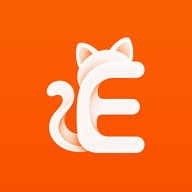
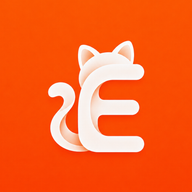
feat(client): ask for notifications in our own UI before the browser's
The browser dialog is a one-shot resource. A dismissal is a permanent
denial we cannot re-open, Chrome demotes any request with no gesture
behind it to a quiet icon most people never see, and Safari refuses an
ungestured request outright — so the old code, which fired
requestPermission() automatically on every login, produced no dialog at
all on Apple devices and spent the prompt cheaply everywhere else.

push.ts now separates the two things that were tangled together.
syncPushToken() never asks; it returns early unless permission is already
granted, which is what makes it safe on page load, and it still has to run
there because FCM tokens rotate and a stale one stops delivering silently.
requestPushPermission() is the only caller of the browser API and is
reachable only from a click.

The bar itself waits for the cookie banner to be answered — they share the
strip at the bottom of the page — and holds off five seconds, because a
prompt that lands mid-load gets dismissed reflexively and takes the
browser's own prompt down with it.

Icons: the maskable pair carried the mark at 38% of the tile with the
artwork off centre. Recentring first buys enough room to scale it 1.30x
and still sit inside the 80% safe circle, at 95% of the radius. The
notification badge is new — Android reads only its alpha and tints the
result, so it is a silhouette derived from the maskable file, whose
full-bleed background is the only version where cream separates cleanly
from orange.
[…]

diff --git a/apps/client/src/components/notifications/PushPermissionPrompt.tsx b/apps/client/src/components/notifications/PushPermissionPrompt.tsx
@@ -1,0 +1,118 @@
+'use client';
+
+import { useState, useEffect } from 'react';
+import { useSession } from 'next-auth/react';
+import { useTranslations } from 'next-intl';
+import { Bell } from 'lucide-react';
+import { toast } from '../../lib/store/toast.store';
+import { isPushSupported, pushPermission, requestPushPermission } from '../../lib/notifications/push';
+
+const DISMISSED_KEY = 'push_prompt_dismissed';
+
+/**
+ * Asks in our own UI before asking the browser.
+ *
+ * The browser dialog is a one-shot resource: a user who dismisses it is a
+ * permanent denial we cannot re-open, and Chrome demotes any request without a
+ * gesture behind it to a quiet icon most people never notice. Safari is
+ * stricter still — it refuses an ungestured request outright, which is why the
+ * old code, which asked automatically on login, produced no dialog at all on
+ * Apple devices.
+ *
+ * So the click on "Turn on" below is not decoration. It is the gesture that
+ * makes the real request legal, and it means a no costs us nothing permanent.
+ */
+export function PushPermissionPrompt() {
+  const t = useTranslations('common.pushPrompt');
+  const { data: session } = useSession();
+  const userId = session?.user?.id;
+
+  const [show, setShow]     = useState(false);
+  const [asking, setAsking] = useState(false);
+
+  useEffect(() => {
+    // Push is per-account: the token is stored against a user, so there is
+    // nothing to ask a signed-out visitor for.
+    if (!userId) return;
+    if (!isPushSupported()) return;
+    // 'granted' and 'denied' are both settled — re-asking is impossible in the
+    // denied case and pointless in the granted one.
+    if (pushPermission() !== 'default') return;
+
+    try {
+      if (localStorage.getItem(DISMISSED_KEY)) return;
+      // One bar at a time. The cookie banner occupies this exact strip, and two
+      // stacked full-width bars would cover the page between them.
+      if (!localStorage.getItem('cookie_consent')) return;
+    } catch {
+      // Private mode or blocked storage: fall through and show it. Losing the
+      // dismissal is better than never being able to offer notifications.
+    }
+
+    // Not the instant the page settles. Arriving mid-load reads as a pop-up and
+    // gets dismissed reflexively, which would burn the browser prompt with it.
+    const timer = setTimeout(() => setShow(true), 5000);
+    return () => clearTimeout(timer);
+  }, [userId]);
+
+  const dismiss = () => {
+    try {
+      localStorage.setItem(DISMISSED_KEY, new Date().toISOString());
+    } catch {
+      // Nothing to do — the bar still closes for this session.
+    }
+    setShow(false);
+  };
+
+  const enable = async () => {
+    setAsking(true);
+    // Awaited inside the click handler so the gesture is still live when
+    // Notification.requestPermission() runs.
+    const result = await requestPushPermission();
+    setAsking(false);
+    setShow(false);
+
+    if (result === 'granted') toast.success(t('enabled'));
+    else if (result === 'denied') toast.info(t('blocked'));
+
+    // Either way this is answered; do not raise it again.
+    try {
+      localStorage.setItem(DISMISSED_KEY, new Date().toISOString());
+    } catch {
+      // ignore
+    }
+  };
+
+  if (!show) return null;
+
+  return (
+    <div className="fixed bottom-0 left-0 right-0 z-50 bg-white border-t border-border shadow-lg px-6 py-4 flex flex-col sm:flex-row items-start sm:items-center justify-between gap-4">
+      <div className="flex items-start gap-3 max-w-2xl">
+        <span className="mt-0.5 flex h-9 w-9 shrink-0 items-center justify-center rounded-full bg-primary-light text-primary">
+          <Bell className="h-4 w-4" />
+        </span>
+        <div className="min-w-0">
+          <p className="text-sm font-semibold text-secondary">{t('title')}</p>
+          <p className="text-sm text-muted">{t('message')}</p>
+        </div>
+      </div>
+      <div className="flex gap-3 flex-shrink-0">
+        <button
+          type="button"
+          onClick={dismiss}
+          className="px-4 py-2 border border-border rounded-full text-sm text-muted hover:border-secondary transition-colors"
+        >
+          {t('notNow')}
+        </button>
+        <button
+          type="button"
+          onClick={enable}
+          disabled={asking}
+          className="px-4 py-2 bg-primary text-white rounded-full text-sm hover:bg-primary-dark transition-colors disabled:opacity-60"
+        >
+          {t('enable')}
+        </button>
+      </div>
+    </div>
+  );
+}

diff --git a/apps/client/src/lib/notifications/push.ts b/apps/client/src/lib/notifications/push.ts
@@ -1,5 +1,7 @@
 import { initializeApp, getApps, type FirebaseApp } from 'firebase/app';
 import { getMessaging, getToken, onMessage, type Messaging } from 'firebase/messaging';
+import { api } from '@ezihubb/api-client';
+import { API_ROUTES } from '@ezihubb/constants';
 
 const firebaseConfig = {
   apiKey:            process.env['NEXT_PUBLIC_FIREBASE_API_KEY'],
@@ -29,38 +31,84 @@ function getMsg(): Messaging | null {
 }
 
 /**
- * Request push permission and return an FCM token, or null if unavailable.
- * Safe to call multiple times — reuses existing token if already granted.
+ * Whether this browser can receive push at all.
+ *
+ * Notably false in an iOS Safari tab: iOS exposes window.Notification only to a
+ * site the user has added to the Home Screen, so on iPhone this stays false
+ * until the app is installed. Callers should treat it as "do not ask", not as
+ * an error.
  */
-export async function initPushNotifications(): Promise<string | null> {
-  if (!isConfigured()) return null;
-  if (!('Notification' in window)) return null;
+export function isPushSupported(): boolean {
+  return (
+    isConfigured() &&
+    typeof window !== 'undefined' &&
+    'Notification' in window &&
+    'serviceWorker' in navigator
+  );
+}
+
+/** 'default' means the browser has not been asked yet. */
+export function pushPermission(): NotificationPermission | 'unsupported' {
+  return isPushSupported() ? Notification.permission : 'unsupported';
+}
+
+/**
+ * Mint an FCM token for the signed-in user and hand it to the API.
+ *
+ * Never prompts — it returns false unless permission is ALREADY granted, which
+ * is what makes it safe to call on page load. Asking is requestPushPermission's
+ * job, and only from a click.
+ */
+export async function syncPushToken(): Promise<boolean> {
+  if (pushPermission() !== 'granted') return false;
 
   try {
-    const permission = await Notification.requestPermission();
-    if (permission !== 'granted') return null;
-
     // Idempotent: ServiceWorkerRegistrar already registers this exact script
     // and scope for every visitor, and register() returns the existing
-    // registration rather than creating a second one. Kept here rather than
-    // awaiting navigator.serviceWorker.ready, which never resolves at all if
-    // that registration failed.
+    // registration rather than creating a second one. Used here rather than
+    // navigator.serviceWorker.ready, which never resolves at all if that
+    // registration failed.
     const registration = await navigator.serviceWorker.register(
       '/firebase-messaging-sw.js',
       { scope: '/' },
     );
 
     const messaging = getMsg();
-    if (!messaging) return null;
+    if (!messaging) return false;
 
     const token = await getToken(messaging, {
-      vapidKey:                process.env['NEXT_PUBLIC_FIREBASE_VAPID_KEY'],
+      vapidKey:                  process.env['NEXT_PUBLIC_FIREBASE_VAPID_KEY'],
       serviceWorkerRegistration: registration,
     });
+    if (!token) return false;
 
-    return token ?? null;
+    await api.post(API_ROUTES.USERS.FCM_TOKEN, { token, platform: 'web' });
+    return true;
   } catch {
-    return null;
+    // Push is optional and must never break the page that called this.
+    return false;
+  }
+}
+
+/**
+ * Ask the browser for notification permission, then register the token.
+ *
+ * MUST be called from a user gesture. This used to run automatically on login,
+ * which cost us twice: Chrome demotes an ungestured request to its quiet UI and
+ * can block the origin permanently, and Safari refuses outright — so on iOS the
+ * dialog never appeared at all. The in-app prompt that calls this is what earns
+ * the gesture, and it also means a user who says no here is never reported to
+ * the browser as a denial we can't undo.
+ */
+export async function requestPushPermission(): Promise<NotificationPermission | 'unsupported'> {
+  if (!isPushSupported()) return 'unsupported';
+
+  try {
+    const permission = await Notification.requestPermission();
+    if (permission === 'granted') await syncPushToken();
+    return permission;
+  } catch {
+    return 'denied';
   }
 }
 

diff --git a/apps/client/src/components/providers/AuthProvider.tsx b/apps/client/src/components/providers/AuthProvider.tsx
@@ -4,9 +4,7 @@ import { useEffect } from 'react';
 import { useSession } from 'next-auth/react';
 import { identifyHotjarUser } from '../../lib/analytics/hotjar';
 import { toast } from '../../lib/store/toast.store';
-import { api } from '@ezihubb/api-client';
-import { API_ROUTES } from '@ezihubb/constants';
-import { initPushNotifications, setupForegroundMessages } from '../../lib/notifications/push';
+import { syncPushToken, setupForegroundMessages } from '../../lib/notifications/push';
 
 export function AuthProvider({ children }: { children?: React.ReactNode }) {
   const { data: session } = useSession();
@@ -21,18 +19,17 @@ export function AuthProvider({ children }: { children?: React.ReactNode }) {
   // eslint-disable-next-line react-hooks/exhaustive-deps
   }, [userId]);
 
-  // Register FCM token and set up foreground message handler after login.
+  // Refresh the FCM token and set up the foreground handler after login.
   useEffect(() => {
     if (!userId) return;
 
-    initPushNotifications()
-      .then((token) => {
-        if (!token) return;
-        // eslint-disable-next-line @typescript-eslint/no-empty-function -- best-effort; push notifications are optional
-        api.post(API_ROUTES.USERS.FCM_TOKEN, { token, platform: 'web' }).catch(() => {});
-      })
-      // eslint-disable-next-line @typescript-eslint/no-empty-function -- push notifications are optional, never blocks auth
-      .catch(() => {});
+    // syncPushToken never prompts. This effect used to call the version
+    // that did, so every login fired Notification.requestPermission() with
+    // no gesture behind it — quiet-listed by Chrome, refused by Safari.
+    // Asking is PushPermissionPrompt's job now; this only renews the token
+    // of someone who already said yes, which it must, because FCM tokens
+    // rotate and a stale one silently stops delivering.
+    void syncPushToken();
 
     const unsubscribe = setupForegroundMessages(({ title, body }) => {
       if (title) toast.info(body ? `${title} — ${body}` : title);

diff --git a/apps/client/src/app/[locale]/layout.tsx b/apps/client/src/app/[locale]/layout.tsx
@@ -15,6 +15,7 @@ import { InboxToasts } from '../../components/messages/InboxToasts';
 import { ChatDock } from '../../components/messages/ChatDock';
 import { WebVitals } from '../../components/providers/WebVitals';
 import { CookieConsentBanner } from '../../components/analytics/CookieConsentBanner';
+import { PushPermissionPrompt } from '../../components/notifications/PushPermissionPrompt';
 import { MetaPixel } from '../../components/analytics/MetaPixel';
 import { PinterestTag } from '../../components/analytics/PinterestTag';
 import { OrganizationStructuredData } from '../../components/seo/OrganizationStructuredData';
@@ -163,7 +164,11 @@ export default async function LocaleLayout({
 }) {
   const { locale } = await params;
 
-  if (!routing.locales.includes(locale as 'en' | 'vi')) {
+  // Derived from routing.locales rather than spelled out: the literal union
+  // here said 'en' | 'vi' while routing has carried 'zh' for a while, so the
+  // type claimed a locale we ship is impossible. Runtime was unaffected,
+  // which is exactly why it went unnoticed. This form cannot drift again.
+  if (!routing.locales.includes(locale as (typeof routing.locales)[number])) {
     notFound();
   }
 
@@ -222,6 +227,9 @@ export default async function LocaleLayout({
             {/* Registers the service worker for everyone, signed in or not */}
             <ServiceWorkerRegistrar />
             <CookieConsentBanner />
+            {/* Renders only once the cookie bar is answered — they share
+                the same strip at the bottom of the page. */}
+            <PushPermissionPrompt />
             <Suspense fallback={null}><MetaPixel /></Suspense>
             <Suspense fallback={null}><PinterestTag /></Suspense>
           </CurrencyProvider>

diff --git a/apps/client/src/components/providers/ServiceWorkerRegistrar.tsx b/apps/client/src/components/providers/ServiceWorkerRegistrar.tsx
@@ -5,9 +5,9 @@ import { useEffect } from 'react';
 /**
  * Registers the app's single service worker for every visitor.
  *
- * This used to happen only inside initPushNotifications(), which runs after
- * login and only once notification permission is granted — so a signed-out
- * visitor had no worker at all, and Chrome will not offer to install an app
+ * This used to happen only inside the push bootstrap, which ran after login
+ * and only once notification permission was granted — so a signed-out visitor
+ * had no worker at all, and Chrome will not offer to install an app
  * whose scope has no worker with a fetch handler. Installability has nothing
  * to do with being logged in, so registration cannot hang off auth.
  *

diff --git a/apps/client/src/app/firebase-messaging-sw.js/route.ts b/apps/client/src/app/firebase-messaging-sw.js/route.ts
@@ -117,8 +117,10 @@ try {
         // first segment, so middleware answers 307 to a locale prefix and the
         // notification quietly falls back to the browser's own icon.
         icon: '/android-chrome-192x192.png',
-        // No badge until a monochrome 72x72 mask exists — Android renders a
-        // full-colour icon here as a grey blob.
+        // Android reads only this file's alpha channel and tints the result
+        // itself, so it has to be a silhouette. Handing it the full-colour
+        // icon instead renders a grey blob.
+        badge: '/badge-72x72.png',
         data: payload.data,
         actions: [{ action: 'open', title: 'View' }],
       });
